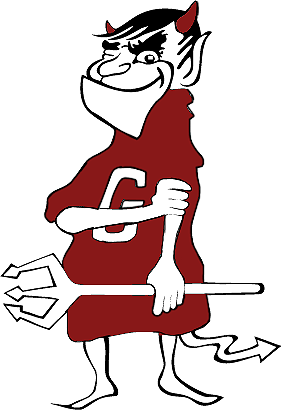
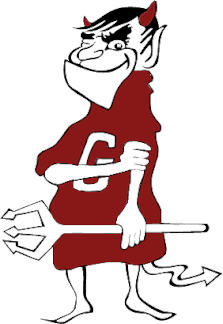
1) yearbook section:  added more pictures; all RSVP (and deceased) classmates now have pictures 2) Demon Dan image resized (for uniformity with other mascot images)

diff --git a/index.html b/index.html
@@ -1,9 +1,8 @@
 <!--
 release notes
-date:  2 September 2025 Friday
-1) yearbook section:  added more pictures; all RSVP classmates now have pictures (some deceased also)
-2) renamed a few pictures to adjust keys
-3) added color Demon Dan mascot image sent by Debbie
+date:  3 September 2025 Wednesday
+1) yearbook section:  added more pictures; all RSVP (and deceased) classmates now have pictures
+2) Demon Dan image resized (for uniformity with other mascot images)
 -->
 
 <!--
@@ -313,7 +312,7 @@ wish list (not necessarily in order of importance):
 
                 <p>Below is the XML used for the above table for XML-savvy stakeholders to copy/edit.</p>
                 <textarea id="idXmlRSVPs">
-<?xml version="1.0" encoding="UTF-8" standalone="yes"?>					
+<?xml version="1.0" encoding="UTF-8" standalone="yes"?>			
 <rsvps>
 	<rsvp>
 		<last>Baumgardner</last>
@@ -3475,47 +3474,57 @@ wish list (not necessarily in order of importance):
 	</classmate>
 	<classmate>
 		<key>445</key>
+		<last>Webster</last>
+		<first>Mary</first>
+		<middle>E.</middle>
+		<prefix>Mrs.</prefix>
+		<reachable>1</reachable>
+		<comment>was planner for 40th reunion, missing from 1998 alumni directory biographical section due to classmates.com bug</comment>
+		<newLast>Stewart</newLast>
+	</classmate>
+	<classmate>
+		<key>446</key>
 		<last>Stout</last>
 		<first>Sheryl</first>
 		<middle>D.</middle>
 	</classmate>
 	<classmate>
-		<key>446</key>
+		<key>447</key>
 		<last>Straley</last>
 		<first>Karen</first>
 		<middle>L.</middle>
 	</classmate>
 	<classmate>
-		<key>447</key>
+		<key>448</key>
 		<last>Strobel</last>
 		<first>Kraig</first>
 		<middle>R.</middle>
 	</classmate>
 	<classmate>
-		<key>448</key>
+		<key>449</key>
 		<last>Strong</last>
 		<first>Danny</first>
 		<middle>B.</middle>
 	</classmate>
 	<classmate>
-		<key>449</key>
+		<key>450</key>
 		<last>Sundseth</last>
 		<first>Kathryn</first>
 	</classmate>
 	<classmate>
-		<key>450</key>
+		<key>451</key>
 		<last>Sutton</last>
 		<first>Richard</first>
 		<reachable>1</reachable>
 	</classmate>
 	<classmate>
-		<key>451</key>
+		<key>452</key>
 		<last>Swanson</last>
 		<first>James</first>
 		<middle>A.</middle>
 	</classmate>
 	<classmate>
-		<key>452</key>
+		<key>453</key>
 		<last>Tanner</last>
 		<first>Randall</first>
 		<middle>R.</middle>
@@ -3523,57 +3532,57 @@ wish list (not necessarily in order of importance):
 		<reachable>1</reachable>
 	</classmate>
 	<classmate>
-		<key>453</key>
+		<key>454</key>
 		<last>Taylor</last>
 		<first>Roberta</first>
 		<middle>L.</middle>
 	</classmate>
 	<classmate>
-		<key>454</key>
+		<key>455</key>
 		<last>Taylor</last>
 		<first>Susan</first>
 		<middle>J.</middle>
 		<reachable>1</reachable>
 	</classmate>
 	<classmate>
-		<key>455</key>
+		<key>456</key>
 		<last>Tenny</last>
 		<first>Barbara</first>
 		<middle>J.</middle>
 		<reachable>1</reachable>
 	</classmate>
 	<classmate>
-		<key>456</key>
+		<key>457</key>
 		<last>Theobald</last>
 		<first>Mary</first>
 		<middle>E.</middle>
 		<reachable>1</reachable>
 	</classmate>
 	<classmate>
-		<key>457</key>
+		<key>458</key>
 		<last>Thielsen</last>
 		<first>Pamela</first>
 		<reachable>1</reachable>
 		<newLast>Geer</newLast>
 	</classmate>
 	<classmate>
-		<key>458</key>
+		<key>459</key>
 		<last>Thirsk</last>
 		<first>Alice</first>
 	</classmate>
 	<classmate>
-		<key>459</key>
+		<key>460</key>
 		<last>Thoemke</last>
 		<first>Susan</first>
 	</classmate>
 	<classmate>
-		<key>460</key>
+		<key>461</key>
 		<last>Thomas</last>
 		<first>Bradford</first>
 		<reachable>1</reachable>
 	</classmate>
 	<classmate>
-		<key>461</key>
+		<key>462</key>
 		<last>Thompson</last>
 		<first>Karen</first>
 		<middle>Marnell</middle>
@@ -3581,7 +3590,7 @@ wish list (not necessarily in order of importance):
 		<newLast>Litsinger</newLast>
 	</classmate>
 	<classmate>
-		<key>462</key>
+		<key>463</key>
 		<last>Tibbetts</last>
 		<first>Stephen</first>
 		<middle>K.</middle>
@@ -3589,51 +3598,51 @@ wish list (not necessarily in order of importance):
 		<reachable>1</reachable>
 	</classmate>
 	<classmate>
-		<key>463</key>
+		<key>464</key>
 		<last>Tidwell</last>
 		<first>Cathy</first>
 		<middle>S.</middle>
 	</classmate>
 	<classmate>
-		<key>464</key>
+		<key>465</key>
 		<last>Tipps</last>
 		<first>Terri</first>
 		<reachable>1</reachable>
 	</classmate>
 	<classmate>
-		<key>465</key>
+		<key>466</key>
 		<last>Topping</last>
 		<first>Darlene</first>
 		<reachable>1</reachable>
 		<newLast>Corbett</newLast>
 	</classmate>
 	<classmate>
-		<key>466</key>
+		<key>467</key>
 		<last>Towle</last>
 		<first>Diana</first>
 		<middle>S.</middle>
 		<newLast>Cheatum</newLast>
 	</classmate>
 	<classmate>
-		<key>467</key>
+		<key>468</key>
 		<last>Towner</last>
 		<first>Ann</first>
 		<reachable>1</reachable>
 	</classmate>
 	<classmate>
-		<key>468</key>
+		<key>466</key>
 		<last>Trimbach</last>
 		<first>Sandra</first>
 		<middle>J.</middle>
 	</classmate>
 	<classmate>
-		<key>469</key>
+		<key>470</key>
 		<last>Tripp</last>
 		<first>Karen</first>
 		<middle>K.</middle>
 	</classmate>
 	<classmate>
-		<key>470</key>
+		<key>471</key>
 		<last>Trowbridge</last>
 		<first>Michael</first>
 		<middle>M.</middle>
@@ -3641,7 +3650,7 @@ wish list (not necessarily in order of importance):
 		<reachable>1</reachable>
 	</classmate>
 	<classmate>
-		<key>471</key>
+		<key>472</key>
 		<last>Tubbs</last>
 		<first>Robert</first>
 		<middle>E.</middle>
@@ -3650,7 +3659,7 @@ wish list (not necessarily in order of importance):
 		<reachable>1</reachable>
 	</classmate>
 	<classmate>
-		<key>472</key>
+		<key>473</key>
 		<last>Tuggle</last>
 		<first>Donna</first>
 		<reachable>1</reachable>
@@ -3786,16 +3795,6 @@ wish list (not necessarily in order of importance):
 		<key>494</key>
 		<last>Weber</last>
 		<first>Robert</first>
-	</classmate>
-	<classmate>
-		<key>495</key>
-		<last>Webster</last>
-		<first>Mary</first>
-		<middle>E.</middle>
-		<prefix>Mrs.</prefix>
-		<reachable>1</reachable>
-		<comment>was planner for 40th reunion, missing from 1998 alumni directory biographical section due to classmates.com bug</comment>
-		<newLast>Stewart</newLast>
 	</classmate>
 	<classmate>
 		<key>496</key>
@@ -4419,6 +4418,17 @@ wish list (not necessarily in order of importance):
 							<img src="images/classmates/key034.png" alt="Bettinger, Thomas" title="Bettinger, Thomas">
 						</li>
 						<li>
+							<h4>Byers, Brad</h4>
+							<img src="images/classmates/key063.png" alt="Byers, Brad" title="Byers, Brad" width="65" height="127">
+							<p>Brad started with our class, but graduated from Evergreen.</p>
+							<p>No yearbook entries could be found for him in any yearbooks; so the following headshot was excerpted from a 1975 yearbook picture of him in band practice.</p>
+							<p>Brad is deceased.</p>
+						</li>
+						<li>
+							<h4>Channon, Douglas</h4>
+							<p>No picture in Yearbook.</p>
+						</li>					
+						<li>
 							<h4>Cook-Warnke (née Cook), Brenda</h4>
 							<img src="images/classmates/key087.png" alt="Cook-Warnke (née Cook), Brenda" title="Cook-Warnke (née Cook), Brenda" width="190" height="281">
 						</li>
@@ -4467,6 +4477,10 @@ wish list (not necessarily in order of importance):
 							<p>picture not in Yearbook</p>
 						</li>
 						<li>
+							<h4>Kietzman, Wayne</h4>
+							<img src="images/classmates/key253.png" alt="Kietzman, Wayne" title="Kietzman, Wayne" width="196" height="279">
+						</li>							
+						<li>
 							<h4>Kroeger, Kevin</h4>
 							<img src="images/classmates/key254.png" alt="Kroeger, Kevin" title="Kroeger, Kevin" width="195" height="281">
 						</li>						
@@ -4483,9 +4497,18 @@ wish list (not necessarily in order of importance):
 							<img src="images/classmates/key268.png" alt="La Crosse, Janice" title="La Crosse, Janice" width="196" height="290">
 						</li>
 						<li>
+							<h4>Lamed, Patricia</h4>
+							<p>deceased</p>
+							<p>No picture in Yearbook.</p>
+						<li>
 							<h4>Leger, David</h4>
 							<img src="images/classmates/key275.png" alt="Leger, David" title="Leger, David" width="192" height="287">
-						</li>						
+						</li>
+						<li>
+							<h4>McDonald, Bradley</h4>
+							<p>deceased</p>
+							<img src="images/classmates/key301.png" alt="McDonald, Bradley" title="McDonald, Bradley" width="197" height="284">
+						</li>												
 						<li>
 							<h4>Moncrieff, Kathleen</h4>
 							<p>Junior year picture shown; no senior year picture.</p>
@@ -4499,7 +4522,12 @@ wish list (not necessarily in order of importance):
 						<li>
 							<h4>Papenfus, Kurt</h4>
 							<img src="images/classmates/key359.png" alt="Papenfus, Kurt" title="Papenfus, Kurt" width="192" height="281">
-						</li>						
+						</li>
+						<li>
+							<h4>Park, Stephen</h4>
+							<p>deceased</p>
+							<p>No picture in Yearbook.</p>
+						</li>					
 						<li>
 							<h4>Perella, Rocco</h4>
 							<p>deceased</p>
@@ -4525,6 +4553,11 @@ wish list (not necessarily in order of importance):
 							<h4>Snell, Laura</h4>
 							<img src="images/classmates/key435.png" alt="Snell, Laura" title="Snell, Laura" width="196" height="283">
 						</li>
+						<li>
+							<h4>Stekr, David</h4>
+							<p>deceased</p>
+							<img src="images/classmates/key444.png" alt="Stekr, David" title="Stekr, David" width="192" height="278">
+						</li>						
 						<li>
 							<h4>Webster (née Stewart), Mary</h4>
 							<img src="images/classmates/key445.png" alt="Stewart, Mary" title="Stewart, Mary" width="199" height="280">
@@ -4597,10 +4630,10 @@ wish list (not necessarily in order of importance):
 			<div class="ghsInfo">
 				<figure>
 					<img src="images/demonDan.png" alt="Demon Dan">
-					<figcaption class="figLeftJustified">Demon Dan in color (Photo from <a href="https://tabroom.com">tabroom.com</a>).</figcaption>
+					<figcaption class="figLeftJustified">Demon Dan (<a href="https://tabroom.com">tabroom.com</a>).</figcaption>
 				</figure>
 				<div class="divJustifyCenter">
-					<p>This is <em>Demon Dan</em> which was the main mascot during our days.</p>
+					<p>This is <em>Demon Dan</em> which was the mascot during our days.</p>
 				</div>				
 			</div>
 
